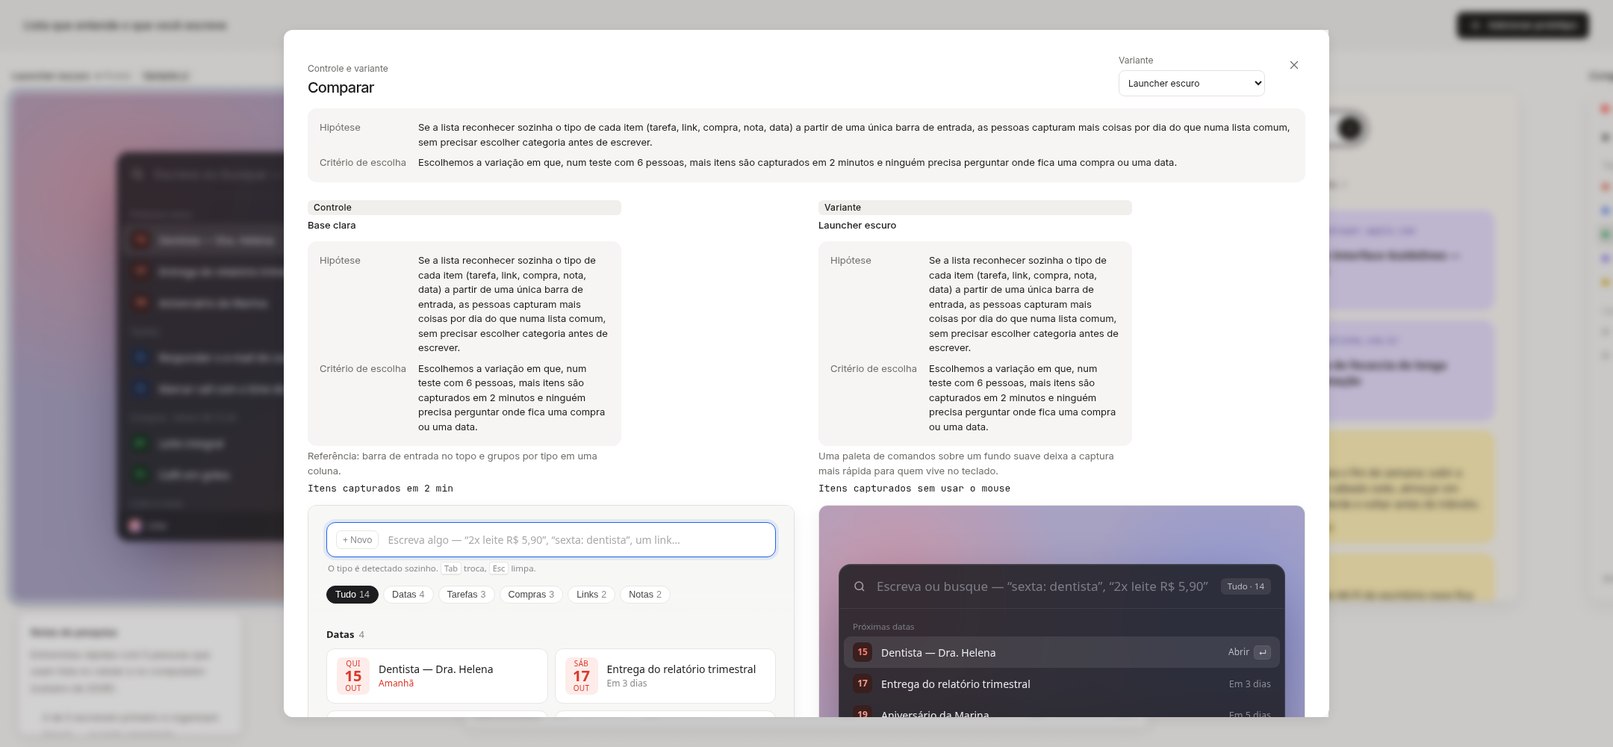
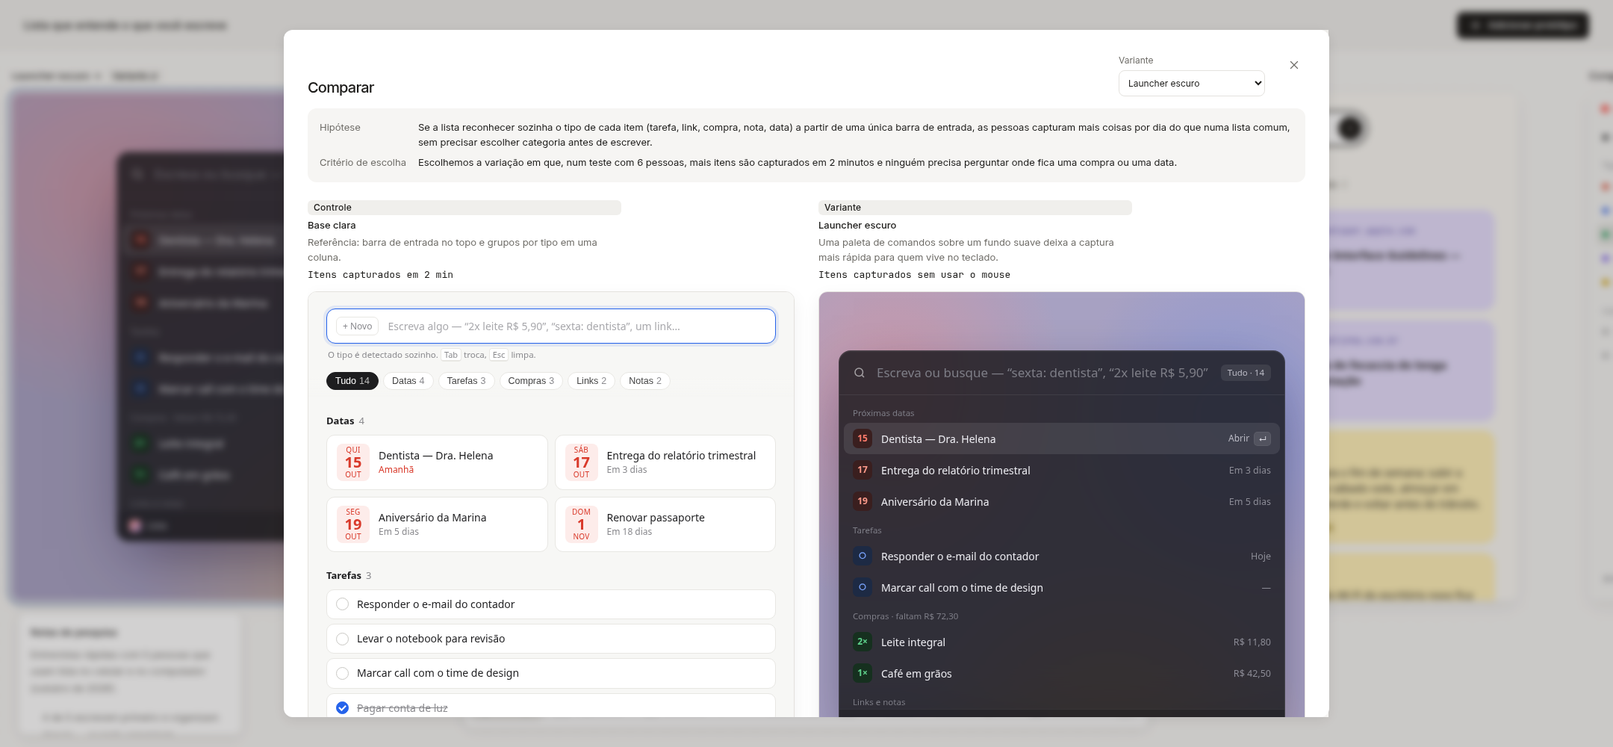
Reduzir o texto do cabeçalho ao nome, ao ponto e ao papel.
O estado do frame fica só no ponto de 6px, com o texto no tooltip. O ponto terracota abre a pergunta no painel. Os rótulos pequenos acima dos títulos saem, e a comparação mostra hipótese e critério uma vez.

diff --git a/src/viewer/main.tsx b/src/viewer/main.tsx
@@ -58,7 +58,7 @@ function submitFeedback(event:FormEvent<HTMLFormElement>) {
 function NewFrame() {
  const state=useStore(); if(!state.newFrame) return null;
  const submit=(event:FormEvent<HTMLFormElement>)=>{event.preventDefault();const title=new FormData(event.currentTarget).get('title');if(typeof title!=='string'||!title.trim())return;void mutate('frames',{title}).then(()=>{if(!snapshot().error)update({newFrame:false});});};
- return <div className="scrim" onClick={()=>update({newFrame:false})}><section role="dialog" aria-modal="true" aria-label={t('app.addPrototype')} className="info-sheet create-sheet" onClick={event=>event.stopPropagation()}><button className="close" aria-label={t('create.close')} onClick={()=>update({newFrame:false})}><X/></button><p className="muted">{t('create.eyebrow')}</p><h1>{t('app.addPrototype')}</h1><p className="create-copy">{t('create.copy')}</p><form onSubmit={submit} className="create-form"><label>{t('create.name')}<input autoFocus name="title" placeholder={t('create.placeholder')} maxLength={200} required/></label><div className="create-actions"><button type="button" onClick={()=>update({newFrame:false})}>{t('create.cancel')}</button><button className="primary" type="submit" disabled={state.busy}>{t('create.submit')}</button></div></form></section></div>;
+ return <div className="scrim" onClick={()=>update({newFrame:false})}><section role="dialog" aria-modal="true" aria-label={t('app.addPrototype')} className="info-sheet create-sheet" onClick={event=>event.stopPropagation()}><button className="close" aria-label={t('create.close')} onClick={()=>update({newFrame:false})}><X/></button><h1>{t('app.addPrototype')}</h1><form onSubmit={submit} className="create-form"><label>{t('create.name')}<input autoFocus name="title" placeholder={t('create.placeholder')} maxLength={200} required/></label><div className="create-actions"><button type="button" onClick={()=>update({newFrame:false})}>{t('create.cancel')}</button><button className="primary" type="submit" disabled={state.busy}>{t('create.submit')}</button></div></form></section></div>;
 }
 function FrameSource({frame}:{frame:Frame}) {
  const [content,setContent]=useState(''); const [failed,setFailed]=useState(false);
@@ -74,6 +74,13 @@ function RoleChip({ frame, frames }: { frame: Frame; frames: Frame[] }) {
  if (!paired) return <span className={`frame-role frame-role-${frame.role}`} data-testid="frame-role" title={frame.group ? t('frame.groupTitle', { group: frame.group }) : undefined}>{label}</span>;
  return <button type="button" className={`frame-role frame-role-${frame.role}`} data-testid="frame-role" aria-label={t('compare.label')} title={frame.group ? t('frame.groupTitle', { group: frame.group }) : undefined} onClick={() => update({ selected: frame.id, compare: { group, variant: frame.role === 'variant' ? frame.id : undefined } })}>{label} ⇄</button>;
 }
+function FrameState({ frameId, activity }: { frameId: string; activity: ReturnType<typeof frameActivity> }) {
+ const label = activity === 'needs-you' ? t('status.needsYou') : activity === 'working' ? t('status.working') : activity === 'ready' ? t('status.ready') : undefined;
+ const className = `frame-status frame-status-${activity ?? 'idle'}`;
+ if (activity === 'needs-you' && label) return <button type="button" className={className} data-testid="frame-activity" data-activity={activity} title={label} aria-label={label} onClick={() => update({ statusOpen: true, selected: frameId, inspector: false })} />;
+ if (label) return <span className={className} role="img" data-testid="frame-activity" data-activity={activity} title={label} aria-label={label} />;
+ return <span className={className} data-testid="frame-activity" data-activity="idle" aria-hidden="true" />;
+}
 function FrameView({frame}:{frame:Frame}) {
  const state=useStore(), position=framePosition(frame), presenting=state.presenting===frame.id;
  const comments=state.workspace?.feedback.filter(comment=>comment.frameId===frame.id) ?? [];
@@ -84,8 +91,7 @@ function FrameView({frame}:{frame:Frame}) {
  return <article className={`frame ${presenting?'presenting':''} ${state.selected===frame.id?'selected':''}${claim?' agent-active':''}`} style={{left:position.x,top:position.y,width:position.width,height:position.height+44,display:position.hidden&&!presenting?'none':undefined}} aria-label={frame.title} data-frame-id={frame.id} title={claim ? t('frame.agentHere') : undefined}>
   <header className="frame-header" data-testid="frame-header" onPointerDown={event=>startMove(event,frame)}>
    <button className="frame-title" data-testid="frame-action-title" onClick={()=>update({selected:frame.id})}>{frame.title}</button>
-   {claim&&<span className="agent-pill" data-testid="frame-agent" title={t('frame.agentHere')}>{t('frame.agent')}</span>}
-   {activity&&<span className={`frame-status frame-status-${activity}`} data-testid="frame-activity" data-activity={activity}><i aria-hidden="true"/>{t(activity==='needs-you'?'status.needsYou':activity==='working'?'status.working':'status.ready')}</span>}
+   <FrameState frameId={frame.id} activity={activity}/>
    <RoleChip frame={frame} frames={frames}/>
    <div className="frame-tools">
     <ViewportControls frame={frame}/>
@@ -114,7 +120,7 @@ function Info() {
  const state=useStore(); if(!state.info) return null;
  const frame=state.workspace?.experiment.frames.find(frame=>frame.id===state.info);
  const readme=frame?.readme ?? (frame?t('info.noFrameReadme'):state.workspace?.readme || t('info.noReadme'));
- return <div className="scrim" onClick={()=>update({info:undefined})}><section role="dialog" aria-modal="true" aria-label={t('frame.infoTitle')} className="info-sheet" onClick={event=>event.stopPropagation()}><button className="close" aria-label={t('info.close')} onClick={()=>update({info:undefined})}><X/></button><p className="muted">{frame?t('info.aboutFrame'):t('info.aboutWorkspace')}</p><h1>{frame?.title ?? state.workspace?.experiment.title}</h1>{!frame&&<DecisionSummary/>}{frame&&<FrameMeta frame={frame}/>}<Markdown source={readme}/>{frame&&<Button label={t('info.presentPrototype')} onClick={()=>present(frame.id)}/>}</section></div>;
+ return <div className="scrim" onClick={()=>update({info:undefined})}><section role="dialog" aria-modal="true" aria-label={t('frame.infoTitle')} className="info-sheet" onClick={event=>event.stopPropagation()}><button className="close" aria-label={t('info.close')} onClick={()=>update({info:undefined})}><X/></button><h1>{frame?.title ?? state.workspace?.experiment.title}</h1>{!frame&&<DecisionSummary/>}{frame&&<FrameMeta frame={frame}/>}<Markdown source={readme}/>{frame&&<Button label={t('info.presentPrototype')} onClick={()=>present(frame.id)}/>}</section></div>;
 }
 function NextSteps({frameId}:{frameId:string}) {
  const state=useStore();
@@ -141,12 +147,12 @@ function Compare() {
  const decision=workspace.experiment.decision;
  const close=()=>update({compare:undefined});
  return <div className="scrim" onClick={close}><section role="dialog" aria-modal="true" aria-label={t('compare.label')} className="compare-sheet" onClick={event=>event.stopPropagation()}>
-  <header className="compare-header"><div><p className="muted">{t('compare.eyebrow')}</p><h1>{t('compare.title')}</h1></div>
+  <header className="compare-header"><div><h1>{t('compare.title')}</h1></div>
    {groups.length>1&&<label>{t('compare.group')}<select value={group.name} onChange={event=>update({compare:{group:event.currentTarget.value}})}>{groups.map(candidate=><option key={candidate.name} value={candidate.name}>{candidate.name}</option>)}</select></label>}
    <label>{t('compare.variant')}<select value={variant.id} onChange={event=>update({compare:{group:group.name,variant:event.currentTarget.value}})}>{group.variants.map(frame=><option key={frame.id} value={frame.id}>{frame.title}</option>)}</select></label>
    <button className="close" aria-label={t('compare.close')} onClick={close}><X/></button></header>
   {(decision?.criteria||decision?.hypothesis)&&<dl className="decision compare-criteria">{decision.hypothesis&&<><dt>{t('meta.hypothesis')}</dt><dd>{decision.hypothesis}</dd></>}{decision.criteria&&<><dt>{t('meta.criteria')}</dt><dd>{decision.criteria}</dd></>}</dl>}
-  <div className="compare-panes">{([[t('role.control'),group.control],[t('role.variant'),variant]] as const).map(([label,frame])=><figure key={frame.id}><figcaption><span className={`frame-badge frame-role-${frame.role??'variant'}`}>{label}</span><strong>{frame.title}</strong>{(decision?.hypothesis||decision?.criteria)&&<dl className="decision compare-frame-decision">{decision?.hypothesis&&<><dt>{t('meta.hypothesis')}</dt><dd>{decision.hypothesis}</dd></>}{decision?.criteria&&<><dt>{t('meta.criteria')}</dt><dd>{decision.criteria}</dd></>}</dl>}{frame.tests&&<p>{frame.tests}</p>}{frame.signal&&<code>{frame.signal}</code>}</figcaption><iframe key={frame.id} title={`${label}: ${frame.title}`} src={frame.url ?? `./content/${frame.entry}`} sandbox="allow-scripts" style={{width:frame.viewport.width,height:frame.viewport.height}}/></figure>)}</div>
+  <div className="compare-panes">{([[t('role.control'),group.control],[t('role.variant'),variant]] as const).map(([label,frame])=><figure key={frame.id}><figcaption><span className={`frame-badge frame-role-${frame.role??'variant'}`}>{label}</span><strong>{frame.title}</strong>{frame.tests&&<p>{frame.tests}</p>}{frame.signal&&<code>{frame.signal}</code>}</figcaption><iframe key={frame.id} title={`${label}: ${frame.title}`} src={frame.url ?? `./content/${frame.entry}`} sandbox="allow-scripts" style={{width:frame.viewport.width,height:frame.viewport.height}}/></figure>)}</div>
  </section></div>;
 }
 function InspectorPanel() {
@@ -161,9 +167,9 @@ function Comments() {
  const comments=state.workspace?.feedback.filter(comment=>!state.selected||comment.frameId===state.selected) ?? [];
  const compose=state.target?.target.kind==='region' ? state.target : undefined;
  return <aside className="side-panel comments-panel" aria-label={t('comments.label')}><header><h2>{t('app.comments')}</h2><button aria-label={t('comments.close')} onClick={()=>update({comments:false,target:undefined})}><X/></button></header>
-  {compose&&<form onSubmit={submitFeedback} className="comment-compose"><span className="muted">{t('comments.region')}</span><strong>{compose.target.label}</strong><code>{Math.round(compose.target.rect.width)} × {Math.round(compose.target.rect.height)} px</code><label>{t('comments.prompt')}<textarea autoFocus name="message" required maxLength={8000} placeholder={t('comments.placeholder')}/></label><button className="primary" disabled={state.busy} type="submit">{t('comments.save')}</button></form>}
+  {compose&&<form onSubmit={submitFeedback} className="comment-compose"><strong>{compose.target.label}</strong><code>{Math.round(compose.target.rect.width)} × {Math.round(compose.target.rect.height)} px</code><label>{t('comments.prompt')}<textarea autoFocus name="message" required maxLength={8000} placeholder={t('comments.placeholder')}/></label><button className="primary" disabled={state.busy} type="submit">{t('comments.save')}</button></form>}
   {!comments.length&&!compose&&<p className="empty-copy">{t('comments.empty')}</p>}
-  <div className="comment-list">{comments.map(comment=><section key={comment.id} className={`comment ${comment.status==='resolved'?'resolved':''} ${state.feedback===comment.id?'focused':''}`}><span className="muted">{state.workspace?.experiment.frames.find(frame=>frame.id===comment.frameId)?.title}</span><strong>{comment.target.label}</strong><p>{comment.message}</p><footer><span>{comment.status==='resolved'?t('comments.resolved'):t('comments.open')}</span>{!state.workspace?.readOnly&&<button onClick={()=>void mutate(`feedback/${encodeURIComponent(comment.id)}`,{status:comment.status==='open'?'resolved':'open'})}>{comment.status==='open'?t('comments.resolve'):t('comments.reopen')}</button>}</footer></section>)}</div>
+  <div className="comment-list">{comments.map(comment=><section key={comment.id} className={`comment ${comment.status==='resolved'?'resolved':''} ${state.feedback===comment.id?'focused':''}`}><strong>{comment.target.label}</strong><p>{comment.message}</p><footer><span>{comment.status==='resolved'?t('comments.resolved'):t('comments.open')}</span>{!state.workspace?.readOnly&&<button onClick={()=>void mutate(`feedback/${encodeURIComponent(comment.id)}`,{status:comment.status==='open'?'resolved':'open'})}>{comment.status==='open'?t('comments.resolve'):t('comments.reopen')}</button>}</footer></section>)}</div>
  </aside>;
 }
 function noteOverlaps(spot: CSSProperties, frame: { left: number; top: number; right: number; bottom: number }, width: number, height: number, viewport: { w: number; h: number }) {
@@ -222,8 +228,6 @@ function App() {
   <nav className="toolbar" aria-label={t('toolbar.label')}><button className={state.mode==='interact'?'active':''} title={t('toolbar.interactTitle')} onClick={()=>setMode('interact')} aria-pressed={state.mode==='interact'}><MousePointer2/><span>{t('toolbar.interact')}</span></button>{!workspace.readOnly&&<><button className={state.mode==='element'?'active':''} title={t('toolbar.inspectTitle')} onClick={()=>setMode('element')} aria-pressed={state.mode==='element'}><Scan/><span>{t('toolbar.inspect')}</span></button><button className={state.mode==='comment'?'active':''} title={t('toolbar.commentTitle')} onClick={()=>setMode('comment')} aria-pressed={state.mode==='comment'}><SquareDashed/><span>{t('toolbar.comment')}</span></button></>}<span className="divider"/><button aria-label={t('toolbar.zoomOut')} onClick={()=>zoomBy(1/1.15)}><Minus/></button><button className="zoom" title={t('toolbar.fitTitle')} onClick={fit}>{Math.round(state.layout.zoom*100)}%</button><button aria-label={t('toolbar.zoomIn')} onClick={()=>zoomBy(1.15)}><Plus/></button><button title={t('toolbar.fitTitle')} aria-label={t('toolbar.fit')} onClick={fit}><Maximize/></button><span className="divider"/>{!workspace.readOnly&&workspace.git===false&&<span className="git-pill" role="status" aria-label={t('git.missing')}>{t('git.short')}</span>}<span className="save-state" role="status">{workspace.readOnly?t('app.readOnly'):state.busy?t('app.saving'):''}</span>{!workspace.readOnly&&<button className="status-toggle" onClick={()=>update({statusOpen:!state.statusOpen})}>{t('status.open')}</button>}{!workspace.readOnly&&workspace.folder&&<button className="connect-toggle" onClick={()=>update({connectOpen:true})}>{t('connect.open')}</button>}<button className="feedback-toggle" onClick={()=>update({comments:!state.comments,inspector:false})}><MessageSquare/>{t('app.comments')} <span>{workspace.feedback.filter(comment=>comment.status==='open').length}</span></button></nav>
   {!!hidden.length&&<details className="hidden-frames"><summary>{t(hidden.length>1?'hidden.many':'hidden.one',{count:hidden.length})}</summary><div className="menu">{hidden.map(frame=><button key={frame.id} onClick={()=>setPosition(frame.id,{...framePosition(frame),hidden:false})}>{t('hidden.restore',{title:frame.title})}</button>)}</div></details>}
   {state.presenting&&<nav className="presentation-controls"><button onClick={leavePresentation}><ArrowLeft/>{t('present.canvas')} <kbd>Esc</kbd></button><span>{workspace.experiment.frames.find(frame=>frame.id===state.presenting)?.title}</span><NextSteps frameId={state.presenting}/><button aria-label={t('present.fullscreen')} onClick={()=>{if(document.fullscreenElement)void document.exitFullscreen();else void document.documentElement.requestFullscreen().catch(()=>update({error:t('present.fullscreenUnavailable')}));}}><Maximize/></button><button onClick={()=>update({comments:!state.comments,inspector:false})}>{t('present.feedback')}</button></nav>}
-  {state.mode==='element'&&<div className="mode-hint">{t('hint.inspect')}<button onClick={()=>setMode('interact')}>{t('hint.done')}</button></div>}
-  {state.mode==='comment'&&<div className="mode-hint">{t('hint.comment')}<button onClick={()=>setMode('interact')}>{t('hint.done')}</button></div>}
   {(state.notice||state.error||workspace.diagnostics.length>0)&&<div className="notice" role="alert">{[state.notice, state.error ?? workspace.diagnostics.join(' · ')].filter(Boolean).join(' · ')}{state.error&&<button onClick={()=>void discardLayoutConflict()}>{t('notice.reloadLayout')}</button>}{state.notice&&!state.error&&<button onClick={()=>update({notice:undefined})}>{t('notice.close')}</button>}</div>}
   <ResearchNote/>
   <MiniMap/><ConnectionControls/><Info/><InspectorPanel/><Comments/><StatusPanel/><NewFrame/><Compare/><ConnectModal/><HistoryPanel/>

diff --git a/tests/browser/decisions.spec.ts b/tests/browser/decisions.spec.ts
@@ -60,14 +60,14 @@ test('o canvas mostra os quatro frames do estudo', async ({ page, studio }) => {
 test('claim muda o selo do frame em até 2 segundos', async ({ page, studio }) => {
  await page.goto(studio.url);
  const frame = lateral(page);
- await expect(frame.getByText('Em andamento')).toHaveCount(0);
+ await expect(frame.getByRole('img', { name: 'Em andamento', exact: true })).toHaveCount(0);
  expect((await runCli(['presence', 'claim', studio.folder, 'lateral', '--label', 'Codex', '--ttl', '120'])).code).toBe(0);
- await expect(frame.getByText('Em andamento', { exact: true })).toBeVisible({ timeout: 2000 });
+ await expect(frame.getByRole('img', { name: 'Em andamento', exact: true })).toBeVisible({ timeout: 2000 });
  await page.getByRole('button', { name: 'Centralizar frames', exact: true }).click();
  await shot(page, 'status-working');
  expect((await runCli(['presence', 'clear', studio.folder, 'lateral'])).code).toBe(0);
- await expect(frame.getByText('Em andamento', { exact: true })).toHaveCount(0, { timeout: 2000 });
- await expect(frame.getByText('Pronto', { exact: true })).toHaveCount(0);
+ await expect(frame.getByRole('img', { name: 'Em andamento', exact: true })).toHaveCount(0, { timeout: 2000 });
+ await expect(frame.getByRole('img', { name: 'Pronto', exact: true })).toHaveCount(0);
 });
 
 test('ask_user entra na fila e sai quando é respondida', async ({ page, studio }) => {
@@ -77,8 +77,10 @@ test('ask_user entra na fila e sai quando é respondida', async ({ page, studio 
   expect((await mcp.call('claim', { frameId: 'base', label: 'Agente' })).isError).toBe(false);
   expect((await mcp.call('ask_user', { frameId: 'base', question: 'Qual margem você prefere?' })).isError).toBe(false);
   const frame = base(page);
-  await expect(frame.getByText('Precisa de você', { exact: true })).toBeVisible({ timeout: 2000 });
-  await page.getByRole('button', { name: 'Status', exact: true }).click();
+  const needsYou = frame.getByRole('button', { name: 'Precisa de você', exact: true });
+  await expect(needsYou).toBeVisible({ timeout: 2000 });
+  await frame.getByRole('button', { name: 'Base clara', exact: true }).click();
+  await needsYou.click();
   const panel = page.getByRole('complementary', { name: 'Status dos frames' });
   await expect(panel.getByText('Qual margem você prefere?')).toBeVisible();
   await shot(page, 'status-needs-you');
@@ -86,8 +88,8 @@ test('ask_user entra na fila e sai quando é respondida', async ({ page, studio 
   await question.getByRole('textbox', { name: 'Resposta' }).fill('A margem curta.');
   await question.getByRole('button', { name: 'Responder', exact: true }).click();
   await expect(panel.getByText('Qual margem você prefere?')).toHaveCount(0);
-  await expect(frame.getByText('Precisa de você', { exact: true })).toHaveCount(0);
-  await expect(frame.getByText('Em andamento', { exact: true })).toBeVisible();
+  await expect(needsYou).toHaveCount(0);
+  await expect(frame.getByRole('img', { name: 'Em andamento', exact: true })).toBeVisible();
   const context = (await mcp.call<{ questions: Array<{ prompt: string; answer?: string; status: string }> }>('get_context')).json();
   expect(context.questions.find(item => item.prompt === 'Qual margem você prefere?')).toMatchObject({ status: 'answered', answer: 'A margem curta.' });
  } finally { await mcp.close(); }
@@ -181,7 +183,7 @@ test('rejeitar suposição gera comentário e aceitar não', async ({ page, stud
   expect(released.json().committed).toEqual(['base']);
   expect((await git(studio.folder, ['log', '-1', '--format=%s'])).trim()).toMatch(/^draft\(base\): /);
   expect(await git(studio.folder, ['show', '--stat', '--format=', 'HEAD'])).toContain('frames/base/summary.json');
-  await expect(base(page).getByText('Pronto', { exact: true })).toBeVisible({ timeout: 2000 });
+  await expect(base(page).getByRole('img', { name: 'Pronto', exact: true })).toBeVisible({ timeout: 2000 });
   await page.getByRole('button', { name: 'Status', exact: true }).click();
   const panel = page.getByRole('complementary', { name: 'Status dos frames' });
   await expect(panel.getByText('Ajustei a leitura.')).toBeVisible();
@@ -205,7 +207,7 @@ test('pasta sem git mostra aviso e o canvas continua', async ({ page, studio }) 
  await expect(page.getByRole('dialog', { name: 'Histórico do frame' })).toContainText('Sem repositório Git');
  await page.getByRole('button', { name: 'Fechar histórico' }).click();
  await page.getByRole('button', { name: 'Inspecionar', exact: false }).click();
- await expect(page.getByText('Clique em um elemento para inspecionar.')).toBeVisible();
+ await expect(page.getByRole('button', { name: 'Inspecionar', exact: false })).toHaveAttribute('aria-pressed', 'true');
 });
 
 test('claim ativo bloqueia salvar no Inspect', async ({ page, studio }) => {
@@ -276,8 +278,12 @@ test('comparar mostra papel e decisão em cada frame', async ({ page, studio }) 
  const control = dialog.locator('figure').filter({ has: page.locator('iframe[title="Controle: Base clara"]') });
  const variant = dialog.locator('figure').filter({ has: page.locator('iframe[title="Variante: Compacta com barra lateral"]') });
  await expect(control).toContainText('Controle');
- await expect(control).toContainText('Menos cliques até achar uma compra.');
  await expect(variant).toContainText('Variante');
- await expect(variant).toContainText('Menos cliques até achar uma compra.');
+ await expect(control).not.toContainText('Menos cliques até achar uma compra.');
+ await expect(variant).not.toContainText('Menos cliques até achar uma compra.');
+ const criteria = dialog.locator('.compare-criteria');
+ await expect(criteria).toHaveCount(1);
+ await expect(criteria).toContainText('A barra lateral reduz o tempo para filtrar.');
+ await expect(criteria).toContainText('Menos cliques até achar uma compra.');
  await shot(page, 'compare-decision');
 });

diff --git a/tests/browser/workflows.spec.ts b/tests/browser/workflows.spec.ts
@@ -51,7 +51,7 @@ test('persiste comentário de região, resolve e reabre na pasta',async({page})=
  await page.getByRole('button',{name:'Base clara',exact:true}).click();
  await page.getByRole('button',{name:'Centralizar frames',exact:true}).click();
  await page.getByRole('button',{name:'Comentar',exact:false}).click();
- await expect(page.getByText(/Arraste no protótipo para marcar uma região/)).toBeVisible();
+ await expect(page.getByRole('button',{name:'Comentar',exact:false})).toHaveAttribute('aria-pressed','true');
  const iframe=page.locator('iframe[title="Base clara"]');
  await expect.poll(async()=>{
   const region=await iframe.boundingBox();
@@ -60,7 +60,7 @@ test('persiste comentário de região, resolve e reabre na pasta',async({page})=
   await page.mouse.down();
   await page.mouse.move(region.x+region.width-50,region.y+region.height-60,{steps:15});
   await page.mouse.up();
-  return page.getByText('Região selecionada').isVisible();
+  return page.getByRole('textbox',{name:'O que precisa mudar?'}).isVisible();
  },{timeout:15_000}).toBe(true);
  await page.getByRole('textbox',{name:'O que precisa mudar?'}).fill('Dar mais espaço ao título.');
  await page.getByRole('button',{name:'Salvar comentário'}).click();
@@ -134,7 +134,7 @@ test('marca região e persiste comentário',async({page})=>{
  await page.getByRole('button',{name:'Base clara',exact:true}).click();
  await page.getByRole('button',{name:'Centralizar frames',exact:true}).click();
  await page.getByRole('button',{name:'Comentar',exact:false}).click();
- await expect(page.getByText(/Arraste no protótipo para marcar uma região/)).toBeVisible();
+ await expect(page.getByRole('button',{name:'Comentar',exact:false})).toHaveAttribute('aria-pressed','true');
  const iframe=page.locator('iframe[title="Base clara"]');
  await expect.poll(async()=>{
   const region=await iframe.boundingBox();
@@ -143,7 +143,7 @@ test('marca região e persiste comentário',async({page})=>{
   await page.mouse.down();
   await page.mouse.move(region.x+region.width-50,region.y+region.height-60,{steps:15});
   await page.mouse.up();
-  return page.getByText('Região selecionada').isVisible();
+  return page.getByRole('textbox',{name:'O que precisa mudar?'}).isVisible();
  },{timeout:15_000}).toBe(true);
  await expect(page.getByRole('textbox',{name:'O que precisa mudar?'})).toBeVisible();
  await page.getByRole('textbox',{name:'O que precisa mudar?'}).fill('Rever o espaço desta região.');
@@ -210,7 +210,7 @@ test('edita visualmente, preserva ajustes sucessivos e restaura o original',asyn
  const openInspect=async()=>{
   await page.getByRole('button',{name:'Inspecionar',exact:false}).click();
   await title.click();
-  await expect(page.getByText('Selecionado',{exact:true})).toBeVisible();
+  await expect(page.getByRole('spinbutton',{name:'Tamanho do texto (px)',exact:true})).toBeVisible();
  };
  await openInspect();
  await expect(page.getByText('Layout',{exact:true})).toHaveCount(0);
@@ -231,8 +231,8 @@ test('edita visualmente, preserva ajustes sucessivos e restaura o original',asyn
  await openInspect();
  await page.getByRole('button',{name:'Restaurar original',exact:true}).click();
  await expect.poll(async()=>await readFile(htmlPath,'utf8')).toBe(original);
- await expect.poll(async()=>title.evaluate(element=>getComputedStyle(element).fontSize)).toBe('13px');
- await expect.poll(async()=>title.evaluate(element=>getComputedStyle(element).paddingTop)).toBe('0px');
+ await expect.poll(async()=>{ try { return await title.evaluate(element=>getComputedStyle(element).fontSize); } catch { return ''; } }).toBe('13px');
+ await expect.poll(async()=>{ try { return await title.evaluate(element=>getComputedStyle(element).paddingTop); } catch { return ''; } }).toBe('0px');
 });
 
 test('cria conexão rotulada e navega no minimapa',async({page})=>{

diff --git a/src/viewer/visual-editor.tsx b/src/viewer/visual-editor.tsx
@@ -59,13 +59,13 @@ export function VisualEditor({frameId,target}:{frameId:string;target:Target}) {
  if(target.kind!=='element')return null;
  if (claim) {
   return <section className="visual-editor agent-locked" aria-label={t('editor.lockedLabel')}>
-   <header className="editor-header"><span className="selection-indicator locked" aria-hidden="true"/><div><span className="editor-eyebrow">{t('frame.agent')}</span><strong>{claim.label}</strong></div></header>
+   <header className="editor-header"><span className="selection-indicator locked" aria-hidden="true"/><div><strong>{claim.label}</strong></div></header>
    <p className="editor-lock" role="status" title={t('frame.agentHere')}>{t('editor.locked')}</p>
   </section>;
  }
  const pending=dirty(state);
  return <section className="visual-editor" aria-label={t('editor.label')}>
-  <header className="editor-header"><span className="selection-indicator" aria-hidden="true"/><div><span className="editor-eyebrow">{t('editor.selected')}</span><strong>{target.label}</strong></div></header>
+  <header className="editor-header"><span className="selection-indicator" aria-hidden="true"/><div><strong>{target.label}</strong></div></header>
   <nav className="editor-breadcrumb" aria-label={t('editor.breadcrumb')}><button type="button" onClick={()=>showCode(frameId,true)}>{entry}</button><span>{target.label}</span></nav>
   <footer className="editor-savebar">{pending&&<span className="editor-unsaved" role="status">{t('editor.unsaved')}</span>}<button type="button" onClick={()=>reset(context)} disabled={!pending}>{t('editor.reset')}</button><button type="button" className="primary" aria-label={t('editor.save')} disabled={snapshot().busy||!!state.error||!pending} onClick={()=>void save(context)}>{t('editor.saveShort')}</button></footer>
   {!state.ready&&<p className="editor-loading" role="status">{t('editor.loading')}</p>}
@@ -80,7 +80,7 @@ export function VisualEditor({frameId,target}:{frameId:string;target:Target}) {
     {Object.entries(COLOR_FIELDS).filter(([name])=>group.names.includes(name)).map(([name,label])=><label key={name}>{t(label)}<input aria-label={t(label)} value={state.changes[name]??state.styles[name]??''} placeholder="#334455" onChange={event=>changeStyle(context,name,event.currentTarget.value)}/></label>)}
     {NUMERIC_FIELDS.filter(([name])=>group.names.includes(name)).map(([name,label])=><label key={name}>{t(label)} (px)<input type="number" min={name==='margin'?-500:0} max={500} step="1" placeholder={t('editor.auto')} aria-label={`${t(label)} (px)`} value={numericValue(state.changes[name]??state.styles[name])} onChange={event=>changeNumber(context,name,event)}/></label>)}
     {Object.entries(SELECT_FIELDS).filter(([name])=>group.names.includes(name)).map(([name,field])=><label key={name}>{t(field.label)}<select value={state.changes[name]??state.styles[name]??''} onChange={event=>changeStyle(context,name,event.currentTarget.value)}>{!field.values.includes(state.styles[name])&&<option value={state.styles[name]??''}>{state.styles[name]??t('editor.default')}</option>}{field.values.map(value=><option key={value} value={value}>{value}</option>)}</select></label>)}
-   </div>{group.names.includes('gap')&&<p className="editor-hint">{t('editor.gapHint')}</p>}</details>)}
+   </div></details>)}
    {state.error&&<p role="alert">{state.error}</p>}
    {state.saved&&<p role="status">{t('editor.saved')}</p>}
    <button type="button" className="restore-original" onClick={()=>void restoreOriginal(context)}>{t('editor.restore')}</button>

diff --git a/src/viewer/flow-canvas.tsx b/src/viewer/flow-canvas.tsx
@@ -95,7 +95,7 @@ export function ConnectionControls() {
  const frames = state.workspace?.experiment.frames.filter(frame => !framePosition(frame).hidden) ?? [];
  const selected = (state.workspace?.experiment.edges ?? []).map(edge => ({ ...edge, id: edgeId(edge) })).find(connection => connection.id === current.selected) ?? (current.pending?.id === current.selected ? current.pending : undefined);
  if (state.presenting || state.workspace?.readOnly) return null;
- return current.open ? <section className="connection-panel" aria-label={t('flow.edit')}><header><strong>{selected ? t('flow.edit') : t('flow.connect')}</strong><button aria-label={t('flow.close')} onClick={() => changeFlow({ open: false, source: undefined })}>×</button></header><p>{current.source ? t('flow.hintSource') : t('flow.hint')}</p>{frames.length < 2 ? <p>{t('flow.needTwo')}</p> : <form key={`${current.selected ?? 'new'}-${current.source ?? ''}`} onSubmit={saveConnection}><label>{t('flow.from')}<select name="from" defaultValue={selected?.from ?? current.source ?? frames[0]?.id}>{frames.map(frame => <option key={frame.id} value={frame.id}>{frame.title}</option>)}</select></label><label>{t('flow.to')}<select name="to" defaultValue={selected?.to ?? frames.find(frame => frame.id !== (current.source ?? frames[0]?.id))?.id}>{frames.map(frame => <option key={frame.id} value={frame.id}>{frame.title}</option>)}</select></label><label>{t('flow.labelField')}<input name="label" maxLength={160} defaultValue={selected?.label ?? ''} placeholder={t('flow.placeholder')}/></label><footer>{selected && <button type="button" onClick={removeConnection}>{t('flow.remove')}</button>}<button className="primary" type="submit">{selected ? t('flow.save') : t('flow.create')}</button></footer></form>}</section> : null;
+ return current.open ? <section className="connection-panel" aria-label={t('flow.edit')}><header><strong>{selected ? t('flow.edit') : t('flow.connect')}</strong><button aria-label={t('flow.close')} onClick={() => changeFlow({ open: false, source: undefined })}>×</button></header>{frames.length < 2 ? <p>{t('flow.needTwo')}</p> : <form key={`${current.selected ?? 'new'}-${current.source ?? ''}`} onSubmit={saveConnection}><label>{t('flow.from')}<select name="from" defaultValue={selected?.from ?? current.source ?? frames[0]?.id}>{frames.map(frame => <option key={frame.id} value={frame.id}>{frame.title}</option>)}</select></label><label>{t('flow.to')}<select name="to" defaultValue={selected?.to ?? frames.find(frame => frame.id !== (current.source ?? frames[0]?.id))?.id}>{frames.map(frame => <option key={frame.id} value={frame.id}>{frame.title}</option>)}</select></label><label>{t('flow.labelField')}<input name="label" maxLength={160} defaultValue={selected?.label ?? ''} placeholder={t('flow.placeholder')}/></label><footer>{selected && <button type="button" onClick={removeConnection}>{t('flow.remove')}</button>}<button className="primary" type="submit">{selected ? t('flow.save') : t('flow.create')}</button></footer></form>}</section> : null;
 }
 function centerMap(event: MouseEvent<SVGSVGElement>, left: number, top: number, width: number, height: number) {
  const bounds = event.currentTarget.getBoundingClientRect();

diff --git a/src/viewer/status-panel.tsx b/src/viewer/status-panel.tsx
@@ -1,4 +1,4 @@
-import { type FormEvent } from 'react';
+import { useEffect, useRef, type FormEvent } from 'react';
 import { X } from 'lucide-react';
 import { frameActivity, type Frame, type FrameActivity, type Workspace } from '../protocol';
 import { t } from '../i18n';
@@ -21,16 +21,17 @@ function FrameDecisions({ frame, workspace }: { frame: Frame; workspace: Workspa
   const summary = workspace.summaries?.find(item => item.frameId === frame.id);
   const questions = (workspace.questions ?? []).filter(item => item.frameId === frame.id && item.status === 'open');
   const comments = workspace.feedback.filter(item => item.frameId === frame.id && item.status === 'open');
-  return <div className="status-frame">
+  const node = useRef<HTMLDivElement>(null);
+  useEffect(() => { if (snapshot().selected === frame.id) node.current?.scrollIntoView({ block: 'nearest' }); }, [frame.id, workspace.revision]);
+  return <div className="status-frame" ref={node}>
     <strong>{frame.title}</strong>
     {questions.map(question => <form key={question.id} className="status-question" onSubmit={event => answerQuestion(event, frame.id, question.id)}>
-      <span className="muted">{t('status.question')}</span>
       <p>{question.prompt}</p>
       <label>{t('status.answer')}<textarea name="answer" required maxLength={4000} placeholder={t('status.answerPlaceholder')} /></label>
       <button className="primary" type="submit" disabled={snapshot().busy}>{t('status.sendAnswer')}</button>
     </form>)}
-    {comments.map(comment => <button key={comment.id} className="status-comment" onClick={() => update({ comments: true, selected: frame.id, feedback: comment.id, inspector: false })}><span className="muted">{t('status.comment')}</span>{comment.message}</button>)}
-    {summary && <div className="status-summary"><span className="muted">{t('status.summary')}</span><p>{summary.text}</p>
+    {comments.map(comment => <button key={comment.id} className="status-comment" onClick={() => update({ comments: true, selected: frame.id, feedback: comment.id, inspector: false })}>{comment.message}</button>)}
+    {summary && <div className="status-summary"><p>{summary.text}</p>
       {!!summary.assumptions.length && <ul className="assumptions">{summary.assumptions.map(assumption => <li key={assumption.id}><p>{assumption.text}</p><span className={`assumption-${assumption.status}`}>{assumption.status === 'pending' ? t('status.assumptions') : assumption.status === 'accepted' ? t('status.accept') : t('status.reject')}</span>
         {assumption.status === 'pending' && !workspace.readOnly && <span className="assumption-actions"><button type="button" onClick={() => void mutate(`frames/${encodeURIComponent(frame.id)}/assumptions/${encodeURIComponent(assumption.id)}`, { status: 'accepted' })}>{t('status.accept')}</button><button type="button" onClick={() => void mutate(`frames/${encodeURIComponent(frame.id)}/assumptions/${encodeURIComponent(assumption.id)}`, { status: 'rejected' })}>{t('status.reject')}</button></span>}
       </li>)}</ul>}

diff --git a/src/viewer/style.css b/src/viewer/style.css
@@ -137,24 +137,23 @@ label { display: grid; gap: var(--space-8); font-size: var(--text-12); }
 .frame:focus-within .frame-tools,
 .frame.selected .frame-tools { visibility: visible; }
 .frame-status {
-  display: inline-flex;
-  align-items: center;
-  gap: var(--space-4);
-  flex: none;
-  font-size: var(--text-12);
-  font-weight: var(--weight-regular);
-  color: var(--color-text-secondary);
-  white-space: nowrap;
-}
-.frame-status i {
   width: 6px;
   height: 6px;
+  min-width: 6px;
+  min-height: 6px;
+  padding: 0;
+  border: 0;
   border-radius: 50%;
   background: var(--color-text-secondary);
   flex: none;
+  box-shadow: none;
 }
-.frame-status-working i { background: var(--color-accent); }
-.frame-status-needs-you i { background: var(--state-alert); }
+.frame-status-working { background: var(--color-accent); }
+.frame-status-needs-you { background: var(--state-alert); }
+button.frame-status { position: relative; cursor: pointer; }
+button.frame-status::after { content: ""; position: absolute; inset: -9px; }
+button.frame-status:hover,
+button.frame-status:focus-visible { background: var(--state-alert); }
 .frame-role {
   flex: none;
   font-size: var(--text-12);
@@ -603,7 +602,7 @@ details[open] > .menu, details[open] > .viewport-panel { animation: menu-enter v
   0%, 100% { outline-color: color-mix(in srgb, var(--color-accent) 53%, transparent); box-shadow: var(--shadow-frame); }
   50% { outline-color: var(--color-accent); box-shadow: var(--shadow-frame), 0 0 0 var(--space-8) color-mix(in srgb, var(--color-accent) 12%, transparent); }
 }
-.agent-pill, .frame-badge, .git-pill {
+.frame-badge, .git-pill {
   flex: none;
   font-size: var(--text-12);
   font-weight: var(--weight-medium);
@@ -616,7 +615,6 @@ details[open] > .menu, details[open] > .viewport-panel { animation: menu-enter v
   padding: var(--space-4) var(--space-8);
   white-space: nowrap;
 }
-.agent-pill { letter-spacing: .04em; text-transform: uppercase; }
 .visual-editor.agent-locked { background: var(--color-canvas); }
 .editor-lock { margin: 0; padding: var(--space-4) 0 var(--space-8); font-size: var(--text-12); line-height: 1.55; color: var(--color-text-secondary); }
 .frame-badge.frame-role-control, .frame-badge.frame-role-variant { background: var(--color-chip); color: var(--color-text); border: 0; }

diff --git a/src/viewer/connect-modal.tsx b/src/viewer/connect-modal.tsx
@@ -17,10 +17,10 @@ export function connectCommands(folder: string) {
 }
 
 const TABS = [
-  { id: 'claude', label: 'connect.claude', help: 'connect.claudeHelp' },
-  { id: 'cursor', label: 'connect.cursor', help: 'connect.cursorHelp' },
-  { id: 'codex', label: 'connect.codex', help: 'connect.codexHelp' },
-  { id: 'manual', label: 'connect.manual', help: 'connect.manualHelp' },
+  { id: 'claude', label: 'connect.claude' },
+  { id: 'cursor', label: 'connect.cursor' },
+  { id: 'codex', label: 'connect.codex' },
+  { id: 'manual', label: 'connect.manual' },
 ] as const;
 
 export function ConnectModal() {
@@ -30,12 +30,11 @@ export function ConnectModal() {
   const [copied, setCopied] = useState(false);
   if (!open || !folder) return null;
   const command = connectCommands(folder)[tab];
-  const current = TABS.find(item => item.id === tab) ?? TABS[0];
   const copy = () => { void navigator.clipboard?.writeText(command).then(() => setCopied(true)).catch(() => setCopied(false)); };
   return <div className="scrim" onClick={() => update({ connectOpen: false })}><section role="dialog" aria-modal="true" aria-label={t('connect.title')} className="info-sheet connect-sheet" onClick={event => event.stopPropagation()}>
     <button className="close" aria-label={t('connect.close')} onClick={() => update({ connectOpen: false })}><X /></button>
     <h1>{t('connect.title')}</h1>
     <div className="connect-tabs" role="tablist" aria-label={t('connect.title')}>{TABS.map(item => <button key={item.id} role="tab" aria-selected={tab === item.id} onClick={() => { setTab(item.id); setCopied(false); }}>{t(item.label as MessageKey)}</button>)}</div>
-    <div role="tabpanel"><p>{t(current.help)}</p><pre className="connect-command">{command}</pre><button type="button" className="primary" onClick={copy}>{copied ? t('connect.copied') : t('connect.copy')}</button></div>
+    <div role="tabpanel"><pre className="connect-command">{command}</pre><button type="button" className="primary" onClick={copy}>{copied ? t('connect.copied') : t('connect.copy')}</button></div>
   </section></div>;
 }

diff --git a/src/viewer/history-panel.tsx b/src/viewer/history-panel.tsx
@@ -46,7 +46,6 @@ export function HistoryPanel() {
   const close = () => update({ historyFrame: undefined });
   return <div className="scrim" onClick={close}><section role="dialog" aria-modal="true" aria-label={t('history.title')} className="info-sheet history-sheet" onClick={event => event.stopPropagation()}>
     <button className="close" aria-label={t('history.close')} onClick={close}><X /></button>
-    <p className="muted">{frame.title}</p>
     <h1>{t('history.title')}</h1>
     {loading && <p role="status">{t('history.loading')}</p>}
     {!loading && !available && <p role="status">{t('history.unavailable')}</p>}

diff --git a/README.md b/README.md
@@ -32,9 +32,9 @@ Opens the included lista study (`examples/lista`). Copy that folder when you sta
 
 ![Comments — pins and region notes next to the prototype](media/feedback.png)
 
-- **Compare** — live HTML alternatives on a local canvas (flow, minimap, viewport presets). When a group has a control and a variant, **Comparar** shows them side by side; each pane repeats the role and the decision (hypothesis and criteria).
+- **Compare** — live HTML alternatives on a local canvas (flow, minimap, viewport presets). When a group has a control and a variant, **Comparar** shows them side by side. The hypothesis and the criterion appear once at the top; each pane keeps its role.
 - **Inspect** — try type, color, fill, border, padding and gap on the live frame. The preview is temporary. The bar shows **Não salvo**, **Reset** (drops the preview) and **Salvar** (accessible name **Salvar ajuste**), which writes the change into that frame's HTML and never into a stylesheet shared with other frames. Setting a border width also sets a solid border when the current style is missing or `none`; setting gap sets `display: flex` unless the element is already flex or grid. **Restaurar original** writes the file back byte for byte when it still holds exactly what Draft last wrote and no other saved tweak touches that file; otherwise it removes only the declarations Draft wrote, so a later edit in the same file survives. An active agent claim blocks Inspect: the panel locks and the save returns 409.
-- **Status** — the frame badge is derived. An open comment or an unanswered agent question shows **Precisa de você**. Otherwise an active claim shows **Em andamento**. Otherwise a submitted summary shows **Pronto**. With none of those, there is no activity badge. **Status** answers questions and accepts or rejects each assumption. Rejecting one opens a comment on the frame; accepting does not.
+- **Status** — the frame header shows a 6px dot. Grey means idle or **Pronto**, the accent means an agent is working, and terracotta means it needs you. Those words are only the dot's tooltip. Clicking the terracotta dot opens the agent question in the side panel. **Status** answers questions and accepts or rejects each assumption. Rejecting one opens a comment on the frame; accepting does not.
 - **History** — in a Git repository, the frame menu lists commits that touch `frames/<id>/`, shows the diff, and can restore that version as a new commit `draft(<id>): restaurar <sha>`. Without Git, the top bar shows **Sem Git** and history says it is unavailable; the canvas keeps working.
 - **Código** — switches that frame to a read-only view of its HTML. **Prévia** returns to the live iframe.
 - **Conectar agente** — copies a stdio MCP command for Claude Code, Cursor, Codex, or a manual client, already pointed at this workspace folder. Read-only export bundles omit that absolute path.
@@ -93,8 +93,8 @@ Everything that matters for the study lives in the manifest, so it travels with 
 }
 ```
 
-- `state` — any short name (empty, loading, error, success…). Shown as a badge on the frame.
-- `role` — `control` or `variant`, per `group`. When a group has a control and a variant, **Comparar** shows them side by side. The header and each pane show the decision hypothesis and criteria.
+- `state` — any short name (empty, loading, error, success…). Listed in the status side panel.
+- `role` — `control` or `variant`, per `group`. When a group has a control and a variant, **Comparar** shows them side by side, with the hypothesis and the criterion once at the top.
 - `edges` — the flow drawn on the canvas. Connections you draw in the viewer are saved here. Older folders that kept them in `.draft/layout.json` are migrated on open.
 - `draft create <folder> "Title" --flow` starts with empty → loading → success / error states already linked.
 - Manifests without `schemaVersion` still open unchanged; the first write from Draft adds `schemaVersion: 2`. Fields Draft does not know are preserved.

diff --git a/CHANGELOG.md b/CHANGELOG.md
@@ -9,6 +9,7 @@ Format based on [Keep a Changelog](https://keepachangelog.com/).
 ### Changed
 
 - Canvas frames use the frame shadow and a 12px radius, with 96px between frames. The frame name stays visible; size and frame actions appear when the frame is selected or focused. Flow filters live in the side panel. Compare opens from the role chip. The top bar keeps the project name and **Adicionar protótipo**.
+- Frame headers show the name, a 6px state dot, and the role chip. Status words are the dot tooltip; the terracotta dot opens the agent question in the side panel. Small labels above titles and helper lines are removed. Compare shows the hypothesis and the criterion once.
 - **Breaking:** flow connections are stored in `experiment.json` (`edges`) instead of `.draft/layout.json`, so they are shared through Git. Existing connections are migrated on open. `POST /api/edges` replaces the layout field.
 
 ### Fixed
